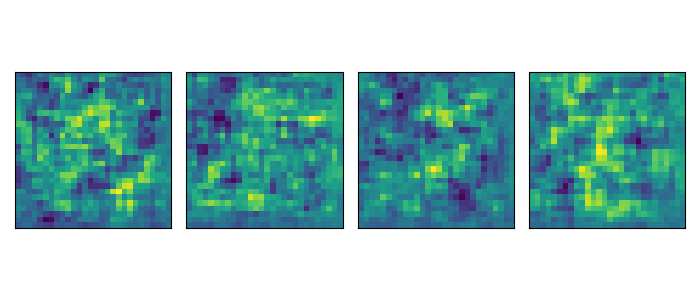
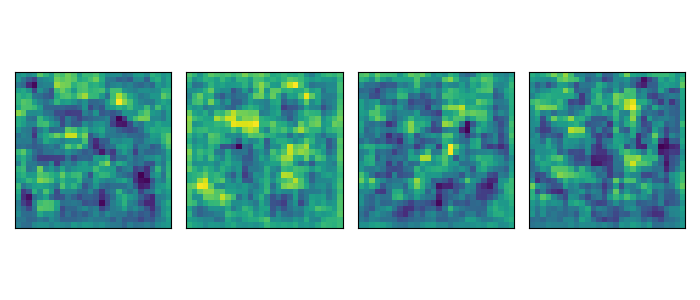
added training part in gan example

diff --git a/src/utils/utils.py b/src/utils/utils.py
@@ -1,5 +1,8 @@
 import os
 import matplotlib.pyplot as plt
+from tensorflow.keras.callbacks import Callback
+import tensorflow as tf
+from tensorflow.keras.preprocessing.image import array_to_img
 
 
 def save_fig(name):
@@ -12,3 +15,18 @@ def save_fig(name):
     if not os.path.exists(output_dir):
         os.makedirs(output_dir)
     plt.savefig(os.path.join(output_dir, filename + ".png"), dpi=100)
+
+
+class ModelMonitor(Callback):
+    def __init__(self, num_img=3, latent_dim=128):
+        self.num_img = num_img
+        self.latent_dim = latent_dim
+
+    def on_epoch_end(self, epoch, logs=None):
+        random_latent_vectors = tf.random.uniform((self.num_img, self.latent_dim, 1))
+        generated_images = self.model.generator(random_latent_vectors)
+        generated_images *= 255
+        generated_images.numpy()
+        for i in range(self.num_img):
+            img = array_to_img(generated_images[i])
+            img.save(os.path.join('../output/images', f'generated_img_{epoch}_{i}.png'))

diff --git a/examples/example_gan_fashion_mnist.py b/examples/example_gan_fashion_mnist.py
@@ -1,3 +1,4 @@
+import os
 import numpy as np
 import matplotlib.pyplot as plt
 import tensorflow_datasets as tfds
@@ -5,6 +6,7 @@ from src.model.generative_adversarial_network.gan import Generator, Discriminato
 from src.utils.utils import save_fig
 from tensorflow.keras.optimizers import Adam
 from tensorflow.keras.losses import BinaryCrossentropy
+from src.utils.utils import ModelMonitor
 
 
 # --- LOAD DATA ---------------------------------
@@ -76,3 +78,5 @@ gan = GAN(generator, discriminator)
 # compile GAN model
 gan.compile(g_opt, d_opt, g_loss, d_loss)
 
+# train GAN model
+hist = gan.fit(ds, epochs=20, callbacks=[ModelMonitor()])
